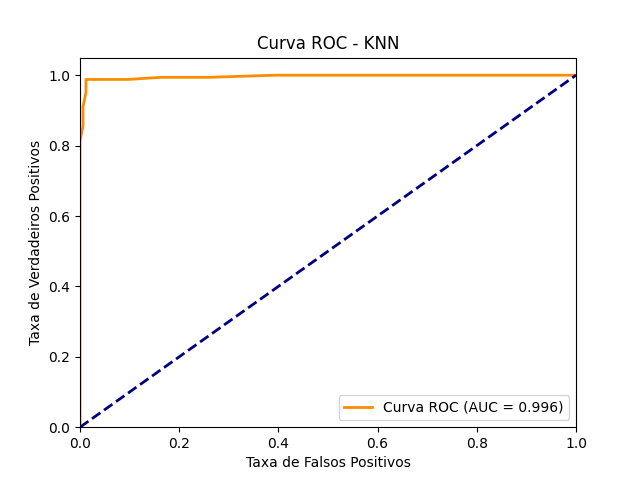
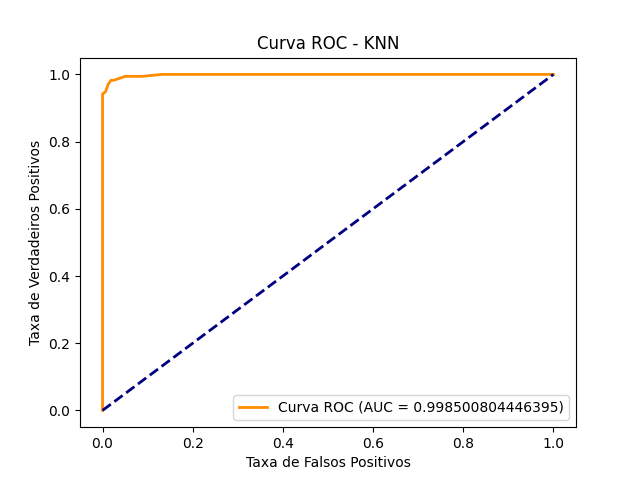
Finalização do trabalho!

diff --git a/AlgortimosML.py b/AlgortimosML.py
@@ -2,103 +2,168 @@ import pandas as pd
 import matplotlib.pyplot as plt
 from sklearn.model_selection import train_test_split
 from sklearn.preprocessing import LabelEncoder
+from sklearn.decomposition import PCA
+# Import dos modelos
 from sklearn.feature_extraction.text import TfidfVectorizer
 from sklearn.discriminant_analysis import LinearDiscriminantAnalysis
 from sklearn.discriminant_analysis import QuadraticDiscriminantAnalysis
 from sklearn.neighbors import KNeighborsClassifier
+from sklearn.svm import SVC
+from sklearn.ensemble import RandomForestClassifier
+#####
 from sklearn.metrics import roc_curve, auc, accuracy_score
+# Leitura e separação dos dados e rótulos
 file_path = 'LLM.csv'
 df = pd.read_csv(file_path)
 df = df.dropna(subset=['Label'])
 texts = df['Text'].tolist()
 labels = df['Label'].tolist()
+# Transformação dos rótulos em 0 ou 1 -> Somente duas classes (AI->0 ou Student->1)
 label_encoder = LabelEncoder()
 y_encoded = label_encoder.fit_transform(labels)
 # Matriz TF-IDF = Frequency Inverse Document -> Frequencia de cada palavra com o intuito de indicar sua importância
 vectorizer = TfidfVectorizer()
 X = vectorizer.fit_transform(texts)
 # Divisão do conjunto de dados (30% teste, 70% treino)
-X_train, X_test, y_train, y_test = train_test_split(X, y_encoded, test_size=0.3, random_state=42)
+X_train, X_test, y_train, y_test = train_test_split(X, y_encoded, test_size=0.3)
+
+###################################### Plot dos dados usando PCA ###########################################
+# PCA é usado para reduzir as dimensões dos dados para ser possível plota-los
+pca = PCA(n_components=2)
+X_pca = pca.fit_transform(X.toarray())
+
+scatter = plt.scatter(X_pca[:, 0], X_pca[:, 1], c=y_encoded)
+plt.title('Dados')
+plt.colorbar(scatter, label='AI                                                                Student')
+plt.savefig('dados.png')
 ###################################### Aplicação do LDA ####################################################
 lda = LinearDiscriminantAnalysis()
+# Aplicação do modelo com os dados de treino
 lda.fit(X_train.toarray(), y_train)  
-
-# Predições para métricas
+# Predições para métricas com os dados de teste
 y_pred = lda.predict(X_test.toarray())
-accuracy = accuracy_score(y_test, y_pred)
-print(f'Acurácia do modelo: {accuracy:.3f}')
-
+# Precisão do modelo 
+acc_lda = accuracy_score(y_test, y_pred)
+print(f'Acurácia do modelo de Linear Discriminant Analysis(LDA) sobre os dados: {acc_lda:.10f}')
+# Probabilidades previstas -> Usado no roc_curve para obter a taxa de falsos positivos e verdadeiros positivos
 y_score = lda.decision_function(X_test.toarray())
-
-fpr, tpr, _ = roc_curve(y_test, y_score)
-roc_auc = auc(fpr, tpr)
+# Obtençaõ das taxas necessária para se plotar a roc curve
+fpr, tpr, threshold = roc_curve(y_test, y_score)
+# Area Under Curve calculada com as taxas 
+roc_auc_lda = auc(fpr, tpr)
+# Plot da Roc curve, a imagem é gerada e salva no projeto quando executado!
 plt.figure()
-plt.plot(fpr, tpr, color='darkorange', lw=2, label='Curva ROC (AUC = %0.3f)' % roc_auc)
+plt.plot(fpr, tpr, color='darkorange', lw=2, label='Curva ROC (AUC = %0.15f)' % roc_auc_lda)
 plt.plot([0, 1], [0, 1], color='navy', lw=2, linestyle='--')
-plt.xlim([0.0, 1.0])
-plt.ylim([0.0, 1.05])
 plt.xlabel('Taxa de Falsos Positivos')
 plt.ylabel('Taxa de Verdadeiros Positivos')
 plt.title('Curva ROC - LDA')
 plt.legend(loc="lower right")
 plt.savefig('roc_curve_lda.png')
 
-
 ###################################### Aplicação do QDA ####################################################
 qda = QuadraticDiscriminantAnalysis()
+# Aplicação do QDA aos dados de treino
 qda.fit(X_train.toarray(), y_train)
 # Obter as previsões
 y_pred = qda.predict(X_test.toarray())
-
-# Calcular a acurácia
-accuracy = accuracy_score(y_test, y_pred)
-print(f'Acurácia do modelo: {accuracy:.3f}')
-
+# Calcular a precisão 
+acc_qda = accuracy_score(y_test, y_pred)
+print(f'Acurácia do modelo de Quadratic Discriminant Analysis (QDA) sobre os dados: {acc_qda:.10f}')
 # Obter as previsões de probabilidade
 y_score = qda.decision_function(X_test.toarray())
-
 # Calcular a curva ROC e AUC
-fpr, tpr, _ = roc_curve(y_test, y_score)
-roc_auc = auc(fpr, tpr)
-
+fpr, tpr, threshold = roc_curve(y_test, y_score)
+roc_auc_qda = auc(fpr, tpr)
 # Plotar a curva ROC
 plt.figure()
-plt.plot(fpr, tpr, color='darkorange', lw=2, label='Curva ROC (AUC = %0.3f)' % roc_auc)
+plt.plot(fpr, tpr, color='darkorange', lw=2, label='Curva ROC (AUC = %0.15f)' % roc_auc_qda)
 plt.plot([0, 1], [0, 1], color='navy', lw=2, linestyle='--')
-plt.xlim([0.0, 1.0])
-plt.ylim([0.0, 1.05])
 plt.xlabel('Taxa de Falsos Positivos')
 plt.ylabel('Taxa de Verdadeiros Positivos')
 plt.title('Curva ROC - QDA')
 plt.legend(loc="lower right")
-
-# Salvar a figura como imagem
 plt.savefig('roc_curve_qda.png')
 
 ###################################### Aplicação do KNN ####################################################
+# Foi utilizado a quantidade de vizinhos como 21 pois foi a que apresentou melhores precisões dentre todos os testes feitos
 knn = KNeighborsClassifier(n_neighbors=21)
+# Aplicação do KNN sobre os dados de treino
 knn.fit(X_train.toarray(), y_train) 
+# Predições com os dados de treino
 y_pred = knn.predict(X_test.toarray())
-
-accuracy = accuracy_score(y_test, y_pred)
-print(f'Acurácia do modelo: {accuracy:.3f}')
-
-y_score = knn.predict_proba(X_test.toarray())[:, 1]  
-
-fpr, tpr, _ = roc_curve(y_test, y_score)
-roc_auc = auc(fpr, tpr)
-
-# Plotar a curva ROC
+# Calculo da precisão 
+acc_knn = accuracy_score(y_test, y_pred)
+print(f'Acurácia do modelo de K nearest neighbors (KNN) sobre os dados: {acc_knn:.10f}')
+# Probabilidades da primeira class -> por isso o [:,1]
+y_score = knn.predict_proba(X_test.toarray())[:, 1]
+# Taxa de verdadeiros positivos e falsos positivos
+fpr, tpr, threshold = roc_curve(y_test, y_score)
+roc_auc_knn = auc(fpr, tpr)
+# Plot da curva Roc
 plt.figure()
-plt.plot(fpr, tpr, color='darkorange', lw=2, label='Curva ROC (AUC = %0.3f)' % roc_auc)
+plt.plot(fpr, tpr, color='darkorange', lw=2, label='Curva ROC (AUC = %0.15f)' % roc_auc_knn)
 plt.plot([0, 1], [0, 1], color='navy', lw=2, linestyle='--')
-plt.xlim([0.0, 1.0])
-plt.ylim([0.0, 1.05])
 plt.xlabel('Taxa de Falsos Positivos')
 plt.ylabel('Taxa de Verdadeiros Positivos')
 plt.title('Curva ROC - KNN')
 plt.legend(loc="lower right")
-
-# Salvar a figura como imagem
 plt.savefig('roc_curve_knn.png')
 
+###################################### Aplicação do SVM ####################################################
+# Instancia de SVM -> probability = True para possibilitar o calculo das probabilidades para curva roc
+svm = SVC(kernel='linear', probability=True)
+# Aplicação de SVM sobre os dados de treino
+svm.fit(X_train.toarray(), y_train)
+# Predições com os dados de teste
+y_pred = svm.predict(X_test.toarray())
+# Calculo da precisão 
+acc_svm = accuracy_score(y_test, y_pred)
+print(f'Acurácia do modelo de Support Vector Machines (SVM) sobre os dados: {acc_svm:.10f}')
+# Probabilidades da primeira class -> por isso o [:,1]
+y_score = svm.predict_proba(X_test.toarray())[:, 1]
+fpr, tpr, threshold = roc_curve(y_test, y_score)
+roc_auc_svm = auc(fpr, tpr)
+# Plot da curva Roc
+plt.figure()
+plt.plot(fpr, tpr, color='darkorange', lw=2, label='Curva ROC (AUC = %0.15f)' % roc_auc_svm)
+plt.plot([0, 1], [0, 1], color='navy', lw=2, linestyle='--')
+plt.xlabel('Taxa de Falsos Positivos')
+plt.ylabel('Taxa de Verdadeiros Positivos')
+plt.title('Curva ROC - SVM')
+plt.legend(loc="lower right")
+plt.savefig('roc_curve_svm.png')
+
+###################################### Aplicação do Random Forest ####################################################
+# Nesse caso, n_estimators especifica a quantidade de arvores de decisão que deverão ser feitas
+# Após alguns testes, percebi que mesmo aumentando o valor de arvores a precisão não aumentou! 
+rfc = RandomForestClassifier(n_estimators=100)
+rfc.fit(X_train.toarray(), y_train)
+# Predições 
+y_pred = rfc.predict(X_test.toarray())
+# Precisão do modelo
+acc_rfc = accuracy_score(y_test, y_pred)
+print(f'Acurácia do modelo de Random Forest sobre os dados: {acc_rfc:.10f}')
+# Probabilidades da primeira class -> por isso o [:,1]
+y_score = rfc.predict_proba(X_test.toarray())[:, 1]
+# Taxa de falsos positivos e verdadeiros positivos
+fpr, tpr, threshold = roc_curve(y_test, y_score)
+roc_auc_rfc = auc(fpr, tpr)
+# Plot da curva Roc
+plt.figure()
+plt.plot(fpr, tpr, color='darkorange', lw=2, label='Curva ROC (AUC = %0.15f)' % roc_auc_rfc)
+plt.plot([0, 1], [0, 1], color='navy', lw=2, linestyle='--')
+plt.xlabel('Taxa de Falsos Positivos')
+plt.ylabel('Taxa de Verdadeiros Positivos')
+plt.title('Curva ROC - Random Forest')
+plt.legend(loc="lower right")
+plt.savefig('roc_curve_rfc.png')
+
+####################################### Ordem de precisão dos algoritmos ###########################################
+# Está sendo usado a AUC calculada para cada ROC!
+roc_aucs= [(roc_auc_svm, "Support Vector Machine"), (roc_auc_knn, "K Nearest Neighbors"), (roc_auc_lda, "Linear Discriminant Analysis"), (roc_auc_qda, "Quadratic Discriminant Analysis"), (roc_auc_rfc, "Random Forest")]
+roc_aucs_sort = sorted(roc_aucs, key=lambda x: x[0])
+roc_aucs_sort = roc_aucs_sort[::-1]
+for i in range(len(roc_aucs_sort)):
+    acc, model = roc_aucs_sort[i]
+    print(f'{i+1}°: {model}, com precisão de: {acc}')
